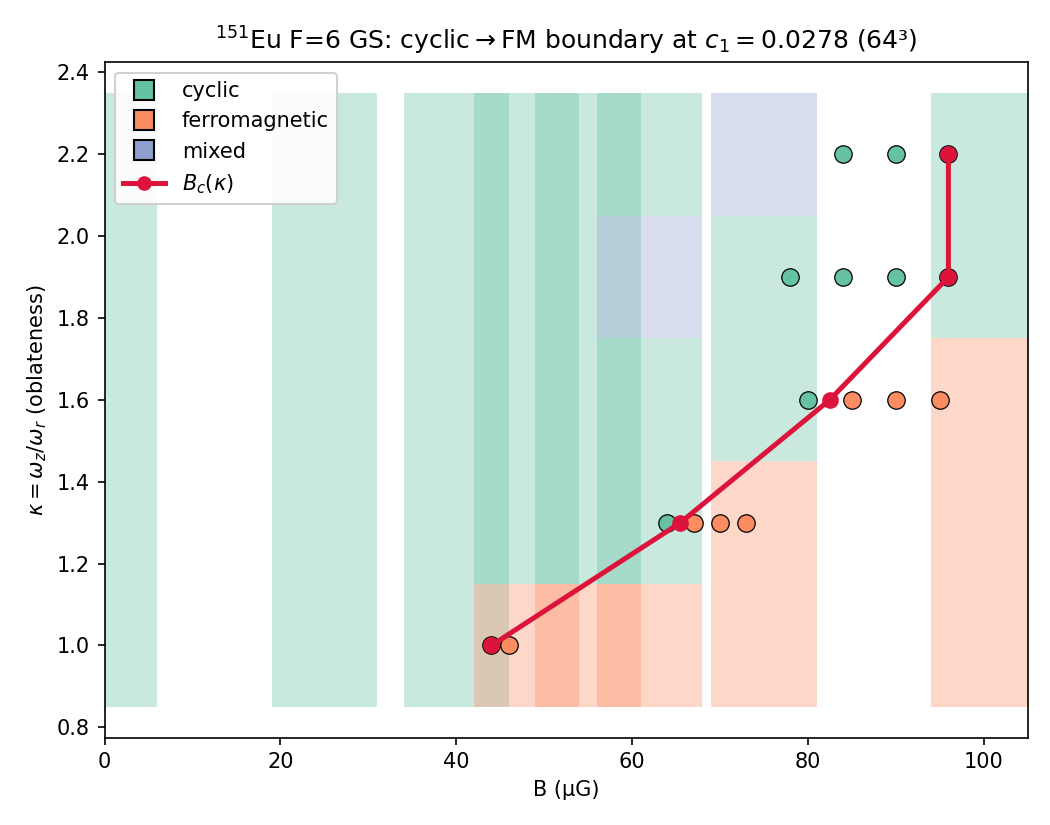
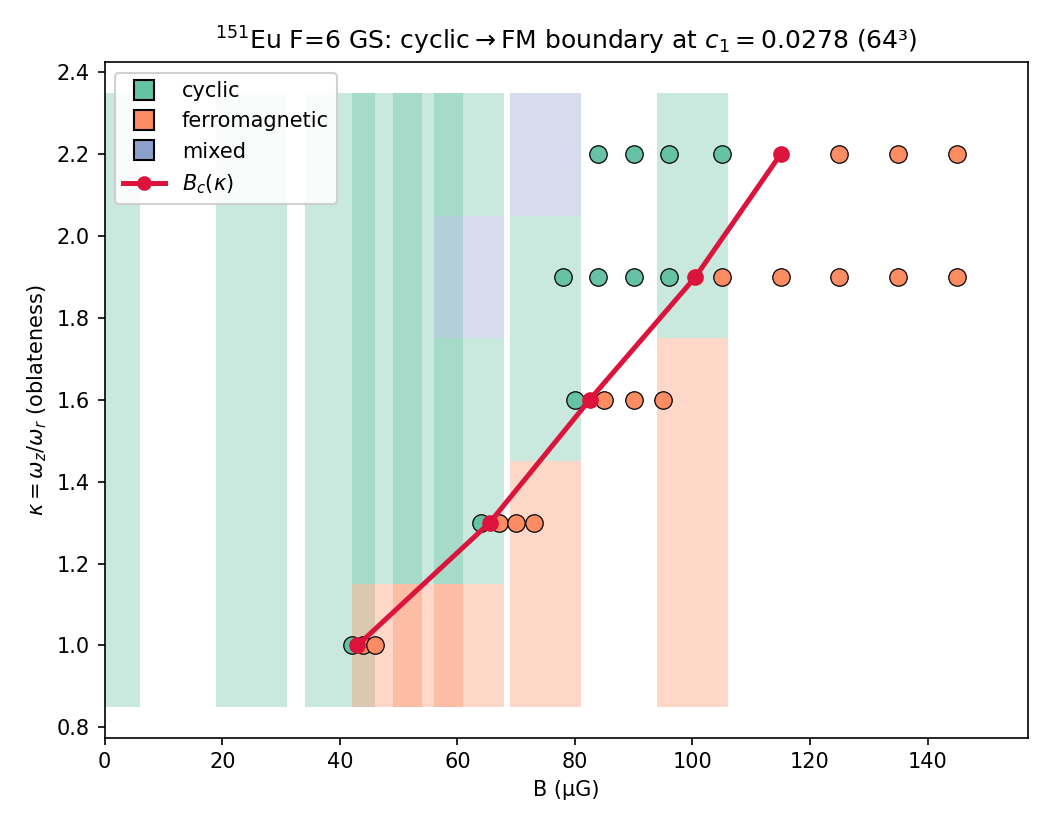
feat(eu-phase): complete B_c(κ) cyclic->FM boundary line (κ=1.0-2.2)
High-κ extension closes the boundary above 100µG:
  B_c ≈ 43 (κ=1.0), 66 (1.3), 83 (1.6), 100 (1.9), 115µG (2.2) — monotone,
  ~linear rise (~60µG per unit κ), the demagnetization-driven sweep.
phase_boundary_64.png now spans the full oblate range; x-limit is data-driven.

Assisted-by: Claude Code (model: claude-opus-4-8[1m])

diff --git a/scripts/eu_phase_boundary_figure.py b/scripts/eu_phase_boundary_figure.py
@@ -76,7 +76,7 @@ ax.legend(handles=handles, loc="upper left", framealpha=0.9)
 ax.set_xlabel("B (µG)")
 ax.set_ylabel(r"$\kappa=\omega_z/\omega_r$ (oblateness)")
 ax.set_title(rf"$^{{151}}$Eu F=6 GS: cyclic$\to$FM boundary at $c_1={c1:.4f}$ (64³)")
-ax.set_xlim(0, 105)
+ax.set_xlim(0, max(105, float(bd.B_uG.max()) + 12))
 fig.tight_layout()
 fig.savefig(out, dpi=150)
 print("wrote", out)
